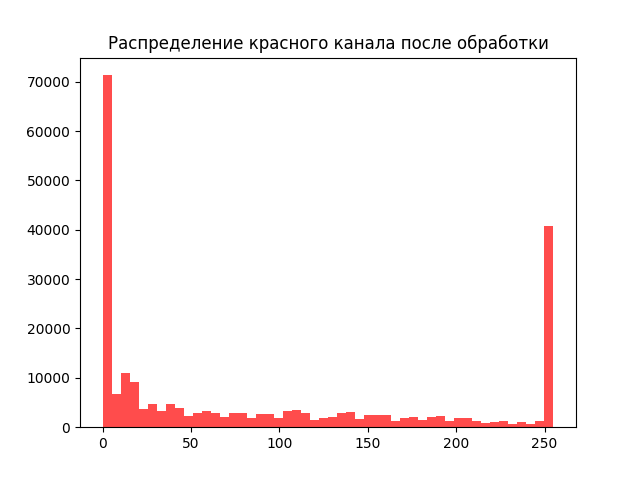
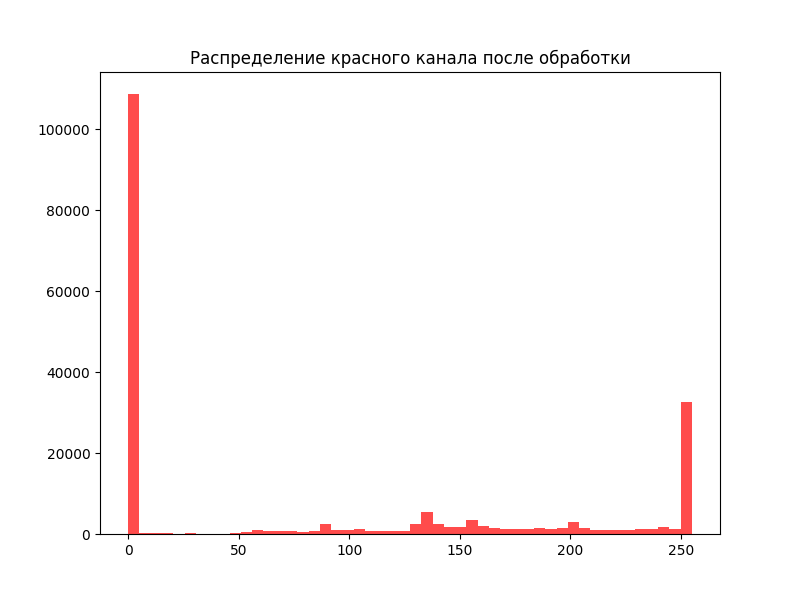
Исправление цветов гистограмм: добавлен явный сброс состояний matplotlib

diff --git a/app.py b/app.py
@@ -48,26 +48,31 @@ def img_processing():
     plt.title('Распределение красного канала до обработки')
     plt.savefig('static/red_histogram.png')
     plt.clf()
+    plt.figure(figsize=(8, 6))
 
     plt.hist(ProcRed.flatten(), bins=50, color='red', alpha=0.7)
     plt.title('Распределение красного канала после обработки')
     plt.savefig('static/red_processed.png')
     plt.clf()
+    plt.figure(figsize=(8, 6))
 
     plt.hist(green.flatten(), bins=50, color='green', alpha=0.7)
     plt.title('Распределение зеленого канала до обработки')
     plt.savefig('static/green_histogram.png')
     plt.clf()
+    plt.figure(figsize=(8, 6))
 
     plt.hist(ProcGreen.flatten(), bins=50, color='green', alpha=0.7)
     plt.title('Распределение зеленого канала после обработки')
     plt.savefig('static/green_processed.png')
     plt.clf()
+    plt.figure(figsize=(8, 6))
 
     plt.hist(blue.flatten(), bins=50, color='blue', alpha=0.7)
     plt.title('Распределение синего канала до обработки')
     plt.savefig('static/blue_histogram.png')
     plt.clf()
+    plt.figure(figsize=(8, 6))
 
     plt.hist(ProcBlue.flatten(), bins=50, color='blue', alpha=0.7)
     plt.title('Распределение синего канала после обработки')
